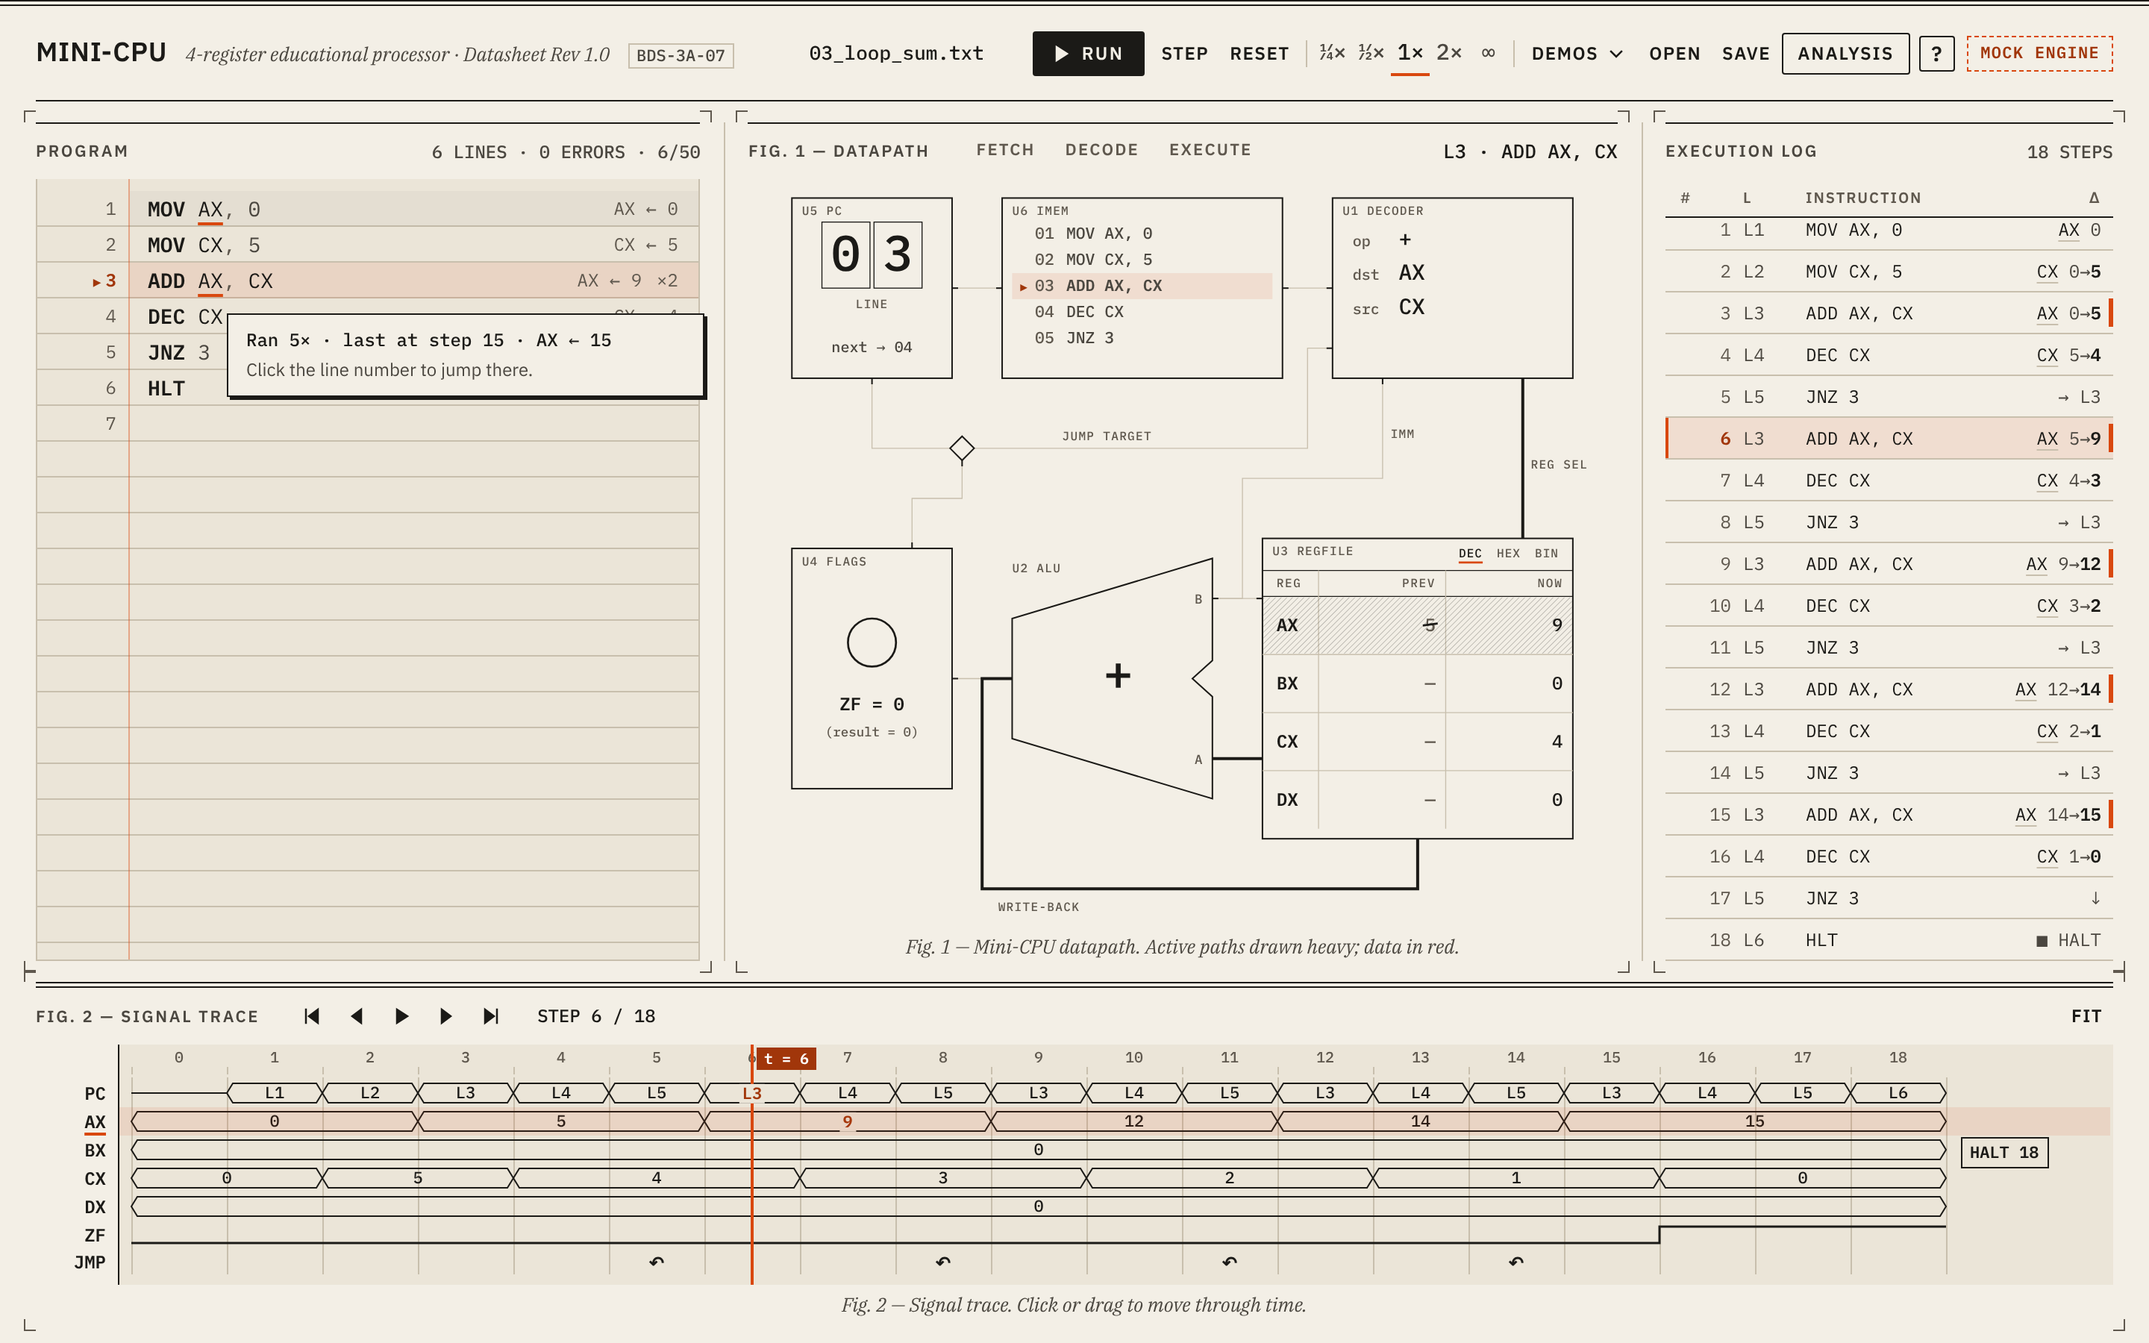
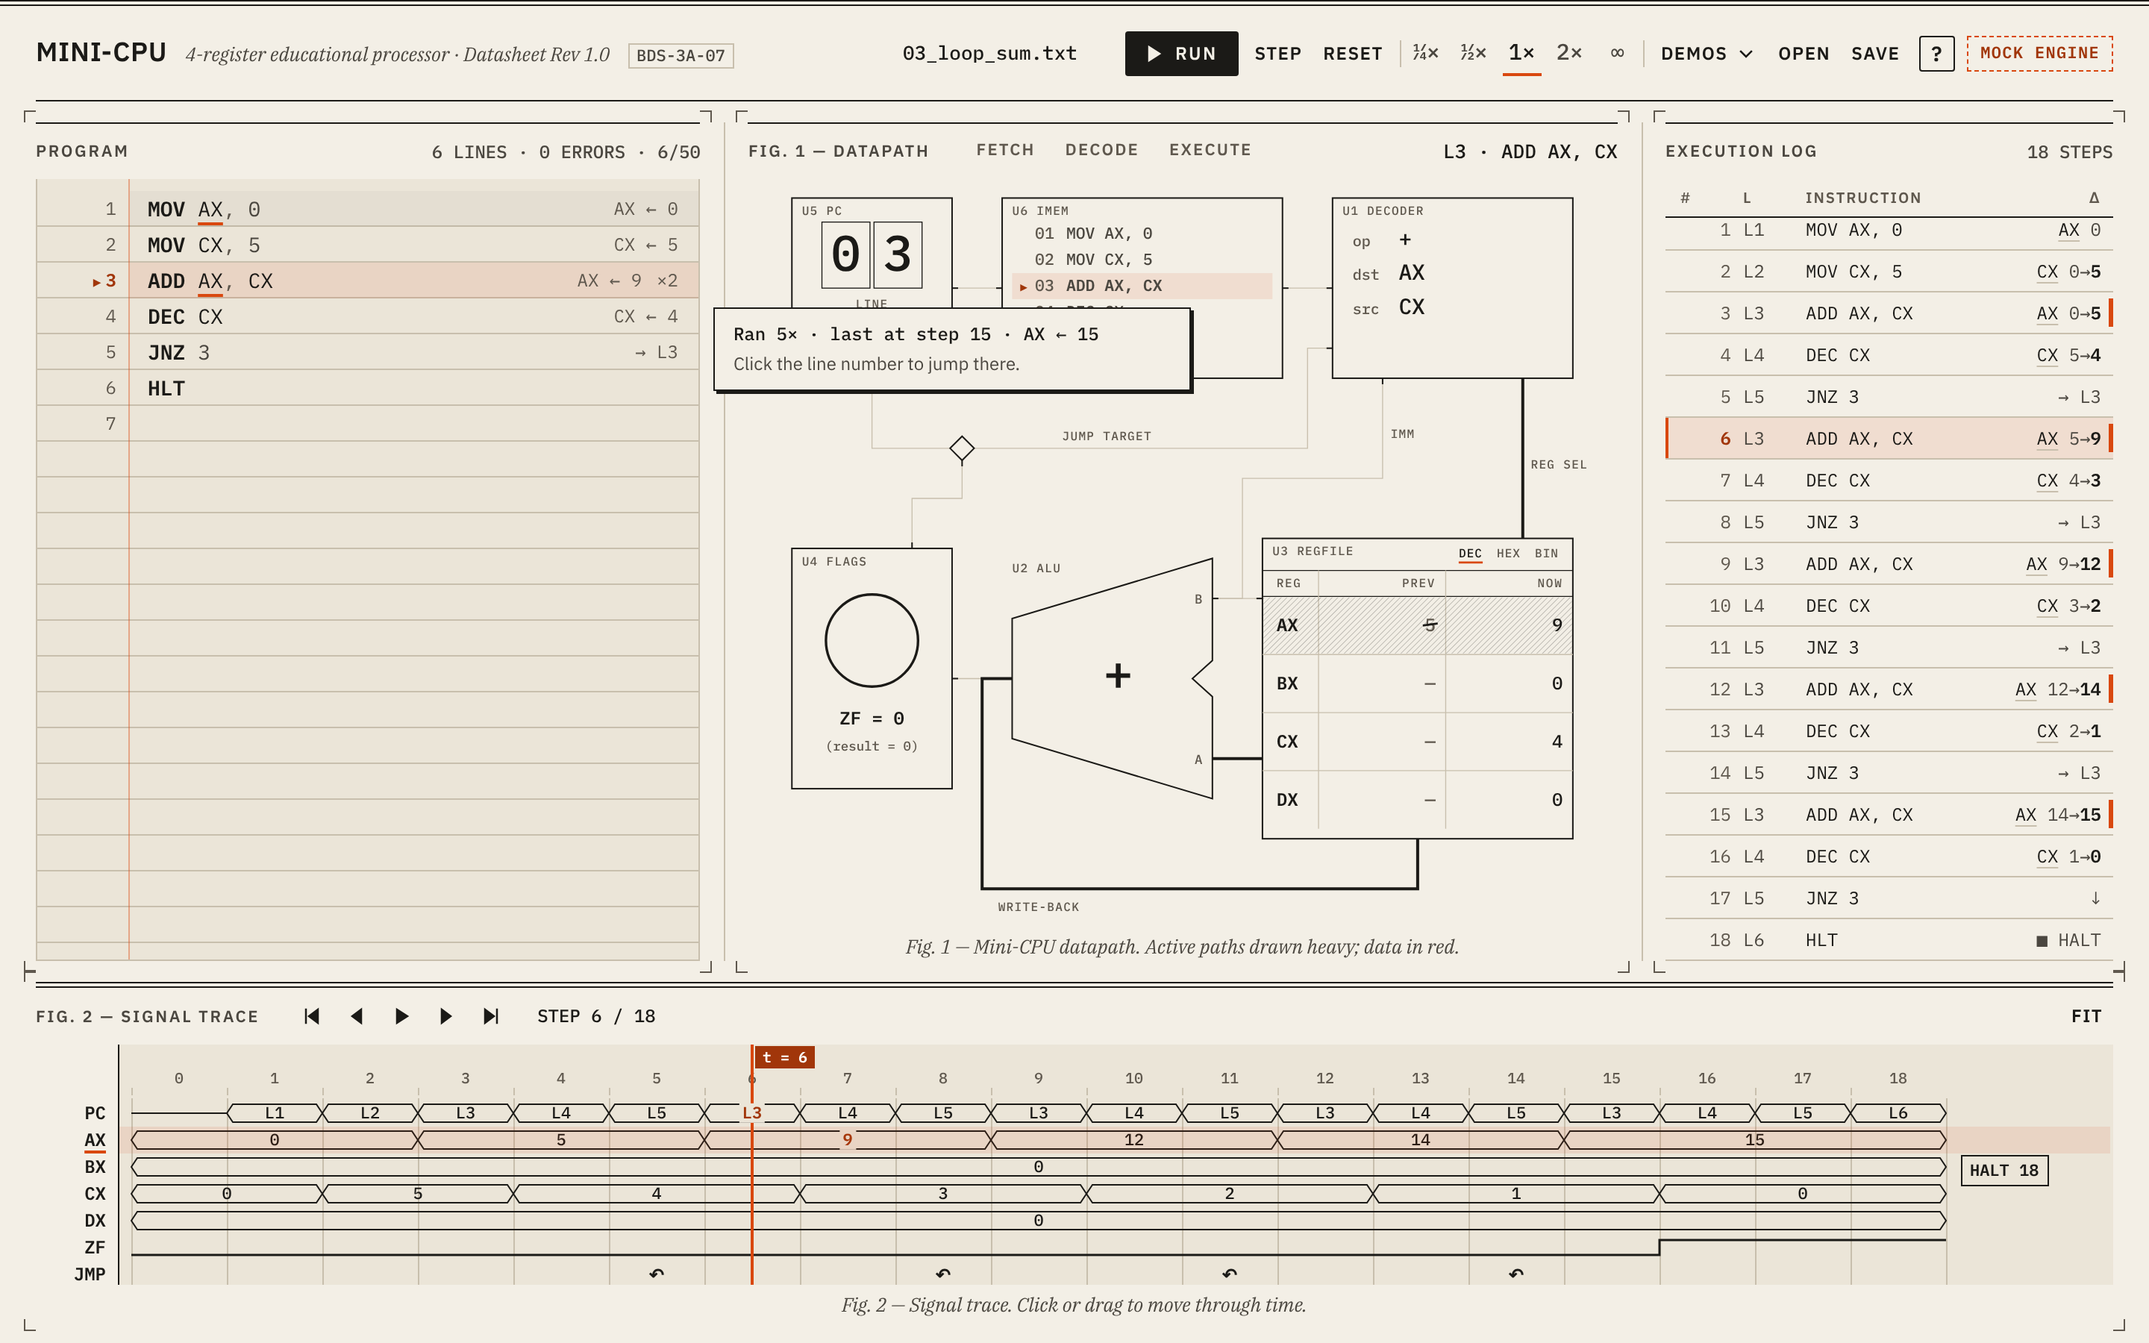
Polish hover cards, token red pen and debounced live mode

diff --git a/gui/web/js/editor.js b/gui/web/js/editor.js
@@ -2,15 +2,16 @@
 // ink-weight syntax, pencil notes (inline results), the teacher's red pen for errors,
 // and live mode.
 //
-// Live mode: Enter runs CPU.exe at once; any other edit runs it 700 ms after the
-// user stops typing. The actual run is done by main.js (hooks.liveRun).
+// Live mode: CPU.exe runs only after the user STOPS typing for 900 ms (every key,
+// Enter too, restarts the timer). While waiting, the old results stay visible but
+// dimmed, and the line being typed shows no error. The run itself is in main.js.
 
 import { state, stateAt, describeStep, errorOnLine, indexes, REG_NAMES } from "./state.js";
 import { errorInfo } from "./errors.js";
 import { penStrokes } from "./pen.js";
 
 const OPCODES = ["MOV", "ADD", "SUB", "CMP", "INC", "DEC", "JMP", "JZ", "JNZ", "HLT"];
-const LIVE_DELAY_MS = 700;
+const LIVE_DELAY_MS = 900;
 const SVG = "http://www.w3.org/2000/svg";
 const LINE_PAD = 12;        // left padding of a code line (editor.css)
 
@@ -20,6 +21,8 @@ let liveTimer = null;
 let decorations = [];       // undo functions for everything drawn by the last redraw
 let lastResult;
 let lastCursor = -1;
+let waiting = false;        // edited since the last result: what is shown is "old"
+let lastEditLine = 1;       // the line of the latest edit (for the live replay)
 const drawnPens = new Set(); // red-pen marks already animated once (no re-animation on redraw)
 
 // ------------------------------------------------------------------ syntax mode
@@ -54,15 +57,21 @@ export function initEditor(host, editorHooks) {
     smartIndent: false,
     electricChars: false,
     lineWrapping: false,
-    extraKeys: { Enter: onEnter },
   });
 
   cm.on("changes", (_, changes) => {
     const programmatic = changes.every((c) => c.origin === "setValue");
     hooks.onCodeChange(cm.getValue(), { programmatic });
-    if (!programmatic) scheduleLiveRun();
+    if (!programmatic) {
+      lastEditLine = changes[changes.length - 1].from.line + 1;
+      setWaiting(true);
+      scheduleLiveRun();
+    }
   });
-  cm.on("cursorActivity", markActiveLine);
+  cm.on("cursorActivity", () => {
+    markActiveLine();
+    if (waiting) cm.operation(redrawDecorations);   // the hidden error follows the cursor
+  });
   // the margin: line number = jump to that line's last execution; left strip = breakpoint
   cm.on("gutterClick", (_, line, gutter) => {
     if (gutter === "bp-gutter") hooks.onToggleBreakpoint(line + 1);
@@ -95,26 +104,43 @@ export function insertLine(text) {
 }
 
 // ------------------------------------------------------------------ live mode
-function onEnter(editor) {
-  const lineBefore = editor.getCursor().line + 1;        // the line the user just finished
-  editor.execCommand("newlineAndIndent");
-  clearTimeout(liveTimer);
-  hooks.liveRun(editor.getValue(), lineBefore);
-}
-
+// Debounce: every edit restarts the 900 ms timer; CPU.exe runs when it finally fires.
 function scheduleLiveRun() {
   clearTimeout(liveTimer);
-  liveTimer = setTimeout(() => hooks.liveRun(cm.getValue(), cm.getCursor().line + 1), LIVE_DELAY_MS);
+  liveTimer = setTimeout(() => {
+    liveTimer = null;
+    Promise.resolve(hooks.liveRun(cm.getValue(), lastEditLine)).finally(() => {
+      // nothing new typed and no run busy: stop waiting (e.g. engine missing)
+      if (liveTimer === null && !state.running) setWaiting(false);
+    });
+  }, LIVE_DELAY_MS);
 }
 
 export function cancelLiveRun() {
   clearTimeout(liveTimer);
+  liveTimer = null;
+}
+
+// Waiting = results on screen belong to older code: dim them and show "…".
+function setWaiting(on) {
+  if (waiting === on) return;
+  waiting = on;
+  const wrapper = cm.getWrapperElement();
+  wrapper.classList.toggle("stale", on);
+  if (!on) {                                   // new results: fade back in (200 ms)
+    wrapper.classList.remove("fresh");
+    void wrapper.offsetWidth;
+    wrapper.classList.add("fresh");
+  }
+  renderHeader(state);
+  cm.operation(redrawDecorations);
 }
 
 // ------------------------------------------------------------------ render
 export function renderEditor(s, patch) {
   if (!cm) return;
   if ("running" in patch) document.getElementById("runProgress").classList.toggle("active", s.running);
+  if ("result" in patch && liveTimer === null) setWaiting(false);   // the new result arrived
   if ("code" in patch || "result" in patch) renderHeader(s);
   if (s.result !== lastResult || s.cursor !== lastCursor || "code" in patch || "breakpoints" in patch) {
     lastResult = s.result;
@@ -135,6 +161,8 @@ function renderHeader(s) {
   const errors = s.result ? s.result.errors.length : 0;
   const el = document.getElementById("programStatus");
   el.innerHTML = "";
+  if (waiting) { el.textContent = "…"; el.title = "Waiting for you to stop typing"; return; }
+  el.title = "";
   const part = (text, bad) => {
     const span = document.createElement("span");
     span.textContent = text;
@@ -193,13 +221,15 @@ function redrawDecorations() {
     execCount.set(ln, (execCount.get(ln) || 0) + 1);
   }
   const pcLine = stateAt(k).line;
+  const typingLine = waiting ? cm.getCursor().line + 1 : 0;   // no error shown here while typing
 
   for (let n = 1; n <= cm.lineCount(); n++) {
     const idx = n - 1;
     const code = errorOnLine(n);
     if (code) {
+      if (n === typingLine) continue;
       addLineClass(idx, "wrap", "line-error");
-      redPen(idx, `${n}:${cm.getLine(idx)}:${code}`);
+      redPen(idx, code);
       note(idx, `✗ E${code} ${errorInfo(code).message}`, "pencil-err");
       continue;
     }
@@ -228,23 +258,48 @@ function noteHtml(j, count) {
 }
 
 // ------------------------------------------------------------------ the red pen
-// A hand-drawn ellipse around the text of an error line: two slightly different
-// strokes (rotated ±2°), drawn with stroke-dashoffset the first time it appears.
-function redPen(idx, key) {
+// A hand-drawn ellipse around the FAULTY TOKEN of an error line (two slightly
+// different strokes, drawn with stroke-dashoffset the first time it appears).
+// Which token to circle is chosen only for display; CPU.exe decided the error.
+const OPERANDS = { MOV: 2, ADD: 2, SUB: 2, CMP: 2, INC: 1, DEC: 1, JMP: 1, JZ: 1, JNZ: 1, HLT: 0 };
+
+// The character range to circle: { s, e } (e exclusive), or { s, dot: true } for a
+// small circle (missing operand: at the end of the line).
+function penTarget(text, code) {
+  const words = [...text.matchAll(/[^\s,]+/g)].map((m) => ({ s: m.index, e: m.index + m[0].length, w: m[0].toUpperCase() }));
+  if (words.length === 0) return null;
+  const whole = { s: words[0].s, e: words[words.length - 1].e };
+  const isJump = ["JMP", "JZ", "JNZ"].includes(words[0].w);
+  switch (code) {
+    case 1: return words[0];                                             // unknown opcode
+    case 8: return words[1] || whole;                                    // first operand not a register
+    case 2: return words[1] && !REG_NAMES.includes(words[1].w) ? words[1] : words[2] || whole;
+    case 5: case 6: return (isJump ? words[1] : words[2]) || whole;      // the number
+    case 3: return { s: text.trimEnd().length + 1, dot: true };          // something is missing here
+    case 4: {                                                            // the extra operand(s)
+      const first = words[(OPERANDS[words[0].w] ?? 0) + 1];
+      return first ? { s: first.s, e: words[words.length - 1].e } : whole;
+    }
+    default: return whole;
+  }
+}
+
+function redPen(idx, code) {
   const text = cm.getLine(idx);
-  const start = text.search(/\S/);
-  if (start < 0) return;
-  const end = text.trimEnd().length;
+  const t = penTarget(text, code);
+  if (!t) return;
   const cw = cm.defaultCharWidth();
-  const w = (end - start) * cw + 18;
-  const h = 19;                                      // fits inside one 24px ruled line
+  const w = t.dot ? 14 : Math.max(18, (t.e - t.s) * cw + 12);
+  const h = t.dot ? 14 : 19;                           // fits inside one 24px ruled line
+  const centre = t.dot ? (t.s + 0.5) * cw : ((t.s + t.e) / 2) * cw;
+  const key = `${idx}:${text}:${code}`;
   const svg = document.createElementNS(SVG, "svg");
   svg.setAttribute("class", "red-pen" + (drawnPens.has(key) ? " drawn" : ""));
   svg.setAttribute("width", w + 8);
   svg.setAttribute("height", h + 6);
-  // centre the ellipse on the text: the path's centre is at w/2 + 4 inside the svg
-  svg.style.left = `${LINE_PAD + start * cw + (end - start) * cw / 2 - (w / 2 + 4)}px`;
-  svg.style.top = "-1px";                            // centre on the line: (24 - (h + 6)) / 2
+  // the path's centre is at (w/2 + 4, h/2 + 3) inside the svg
+  svg.style.left = `${LINE_PAD + centre - (w / 2 + 4)}px`;
+  svg.style.top = `${(24 - (h + 6)) / 2}px`;
   penStrokes(svg, w, h);
   drawnPens.add(key);
   const holder = document.createElement("span");
@@ -312,13 +367,18 @@ function onHover(e) {
     `<div class="slip-hint">Click the line number to jump there.</div>`);
 }
 
+// The slip never covers code or margin notes: it opens just OUTSIDE the notebook's
+// right margin, with its bottom edge at the top of the hovered line (or below the
+// line when there is no room above).
 function showSlip(e, box, html) {
   const tip = document.getElementById("errTip");
   tip.innerHTML = html;
-  const app = document.getElementById("app").getBoundingClientRect();
-  tip.style.left = `${Math.min(e.clientX - app.left + 12, app.width - 330)}px`;
-  tip.style.top = `${box.bottom - app.top + 6}px`;
   tip.hidden = false;
+  const app = document.getElementById("app").getBoundingClientRect();
+  const notebook = cm.getWrapperElement().getBoundingClientRect();
+  tip.style.left = `${notebook.right - app.left + 10}px`;
+  const above = box.top - app.top - tip.offsetHeight - 2;
+  tip.style.top = `${above >= notebook.top - app.top ? above : box.bottom - app.top + 2}px`;
 }
 
 function hideSlip() {

diff --git a/gui/web/js/main.js b/gui/web/js/main.js
@@ -50,7 +50,7 @@ async function runCode(code, mode, lineHint = null) {
 function applyResult(result, code, mode, lineHint) {
   stopPlaying();
   const N = result.steps.length;
-  $("analysisBtn").hidden = false;
+  // the ANALYSIS button stays hidden until the Analysis page exists
 
   if (mode === "run") {                     // Run: from step 0, animated to the end
     update({ result, resultCode: code, cursor: 0 });
@@ -299,7 +299,7 @@ function wireTopBar() {
   $("saveBtn").addEventListener("click", saveFile);
   $("logoBtn").addEventListener("click", () => navigate("home"));
   $("analysisBtn").addEventListener("click", () => navigate("analysis"));
-  $("runBtn").addEventListener("click", () => runCode(state.code, "run"));
+  $("runBtn").addEventListener("click", () => { cancelLiveRun(); runCode(state.code, "run"); });
   $("stepBtn").addEventListener("click", stepForward);
   $("resetBtn").addEventListener("click", resetTimeline);
 }
@@ -314,7 +314,7 @@ function onKeyDown(e) {
   const ctrl = e.ctrlKey || e.metaKey;
   const typing = inEditor(e) || ["INPUT", "TEXTAREA"].includes(e.target.tagName);
   let handled = true;
-  if (ctrl && e.key === "Enter") runCode(state.code, "run");
+  if (ctrl && e.key === "Enter") { cancelLiveRun(); runCode(state.code, "run"); }
   else if (e.key === "F10" && e.shiftKey) stepBack();
   else if (e.key === "F10") stepForward();
   else if (ctrl && e.code === "Space") togglePlay();

diff --git a/gui/web/css/waveform.css b/gui/web/css/waveform.css
@@ -33,7 +33,7 @@
 /* cursor: a red line across all rows, with a "t = k" flag */
 .t-cursor { position: absolute; top: 0; bottom: 0; width: 2px; background: var(--spot); }
 .t-flag {
-  position: absolute; top: 2px; left: 4px; padding: 1px 5px; white-space: nowrap;
+  position: absolute; top: 1px; left: 3px; padding: 1px 5px; white-space: nowrap;   /* above the numbers */
   background: var(--spot-text); color: #FFFFFF; font: 600 10px/1.3 var(--font-mono);
 }
 /* the value that changed AT the current step, written in red over the ink one */
@@ -48,6 +48,6 @@
 
 /* linked highlighting */
 .t-band { position: absolute; left: 0; right: 0; background: var(--spot-wash); }
-.t-tick { position: absolute; top: 12px; width: 2px; height: 9px; background: var(--spot); }
+.t-tick { position: absolute; top: 25px; width: 2px; height: 9px; background: var(--spot); }
 .t-label.linked { text-decoration: underline; text-decoration-color: var(--spot);
   text-decoration-thickness: 2px; text-underline-offset: 3px; }

diff --git a/gui/web/js/datapath.js b/gui/web/js/datapath.js
@@ -222,9 +222,9 @@ function buildBlocks(layer) {
 
   // ---- U4 FLAGS: ZF as a printed circle (hollow ring = 0, solid disc = 1)
   const flags = block(layer, "flags");
-  dp.zfDisc = el("circle", { cx: 110, cy: 494, r: 24, class: "zf-disc" }, flags);
-  dp.zfText = txt(flags, 110, 562, "ZF = 0", "zf-label", { "text-anchor": "middle" });
-  txt(flags, 110, 588, "(result = 0)", "zf-caption", { "text-anchor": "middle" });
+  dp.zfDisc = el("circle", { cx: 110, cy: 492, r: 46, class: "zf-disc" }, flags);
+  dp.zfText = txt(flags, 110, 576, "ZF = 0", "zf-label", { "text-anchor": "middle" });
+  txt(flags, 110, 602, "(result = 0)", "zf-caption", { "text-anchor": "middle" });
 }
 
 function buildGate(layer) {

diff --git a/gui/web/css/editor.css b/gui/web/css/editor.css
@@ -87,3 +87,10 @@
 .cm-s-notebook .cm-register { cursor: default; }
 /* a hovered step: a red band under its line (the current step is a solid wash + ▶) */
 .cm-s-notebook .line-linked { box-shadow: inset 0 -2px 0 var(--spot); }
+
+/* live mode: while waiting for the user to stop typing, older results are dimmed;
+   new results fade back in over 200 ms */
+.cm-s-notebook .pencil, .cm-s-notebook .red-pen { transition: opacity .2s; }
+.cm-s-notebook.stale .pencil, .cm-s-notebook.stale .red-pen { opacity: .5; }
+.cm-s-notebook.fresh .pencil, .cm-s-notebook.fresh .red-pen { animation: results-in .2s ease-out; }
+@keyframes results-in { from { opacity: .5; } }

diff --git a/gui/web/css/datapath.css b/gui/web/css/datapath.css
@@ -90,7 +90,7 @@
 #datapath .one-chip text { font-size: 14px; font-weight: 600; }
 
 /* FLAGS: ZF as a printed circle */
-.zf-disc { fill: var(--paper); stroke: var(--ink); stroke-width: 2; transition: fill .15s; }
+.zf-disc { fill: var(--paper); stroke: var(--ink); stroke-width: 2.5; transition: fill .15s; }
 .zf-disc.on { fill: var(--ink); }
 #datapath .zf-label { font-size: 18px; font-weight: 600; }
 #datapath .zf-caption { font-size: 13px; fill: var(--ink-3); }

diff --git a/gui/web/css/layout.css b/gui/web/css/layout.css
@@ -141,7 +141,7 @@ button, input { font: inherit; color: inherit; }
 .icon-fill { fill: currentColor; }
 
 /* printed tab row (speed): the selected one is underlined in spot */
-.tabs { display: flex; }
+.tabs { display: flex; gap: 6px; }
 .tabs button {
   height: 30px; min-width: 26px; padding: 0 4px; border: 0; background: none; cursor: pointer;
   font: 500 15px/1 var(--font-mono); color: var(--ink-2);   /* ¼ and ½ need the size to read */

diff --git a/gui/web/js/waveform.js b/gui/web/js/waveform.js
@@ -18,7 +18,7 @@ const $ = (id) => document.getElementById(id);
 const ROWS = ["PC", "AX", "BX", "CX", "DX", "ZF", "JMP"];
 const X0 = 8;                 // left margin inside the plot
 const END_W = 110;            // room after the last column for the END tag
-const RULER_H = 20;
+const RULER_H = 34;           // top band: the "t = N" flag, then the step numbers
 const MIN_W = 1.5, MAX_W = 64;
 
 let hooks = null;

diff --git a/gui/web/js/help.js b/gui/web/js/help.js
@@ -18,7 +18,7 @@ const INSTRUCTIONS = [
 ];
 
 const SHORTCUTS = [
-  ["Enter", "New line and live run"],
+  ["Stop typing (0.9 s)", "Live run: results update by themselves"],
   ["Ctrl+Enter", "Run (animated)"],
   ["F10", "Step forward"],
   ["Shift+F10", "Step back"],

diff --git a/gui/README.md b/gui/README.md
@@ -84,7 +84,8 @@ and screenshotted where MASM is not available. The header then shows a dashed re
 
 ## Using it
 
-- Type a program; **Enter** runs it at once (live mode), any other edit runs it 700 ms later.
+- Type a program: it runs by itself when you stop typing for 900 ms (live mode). Until then the
+  old results stay dimmed and the header shows "…"; the line you are typing on shows no error.
 - **RUN** animates from step 0; **STEP** / F10 one step; **RESET** back to step 0.
 - **Fig. 2 (signal trace):** click or drag to move through time; Ctrl + wheel zooms, the
   wheel scrolls, **FIT** shows all steps; ← / → step when the trace has focus. Drag its top

diff --git a/docs/CLAUDE.md b/docs/CLAUDE.md
@@ -47,5 +47,7 @@ mini-cpu/
   Program = ruled notebook with red-pen errors; Fig. 1 = datapath as a textbook figure;
   execution log; Fig. 2 = signal trace (timing-diagram timeline). Hovering a register,
   line or step highlights it in every panel.
-- Live mode: Enter (or 700 ms after typing stops) re-runs CPU.exe on the whole program.
+- Live mode: CPU.exe re-runs on the whole program once the user stops typing for 900 ms
+  (every key, Enter too, restarts the timer); old results stay dimmed meanwhile.
+  Ctrl+Enter / RUN runs at once, animated.
 - Run / Step / Reset, play / pause, breakpoints (GUI only), Open / Save, demos, help.
